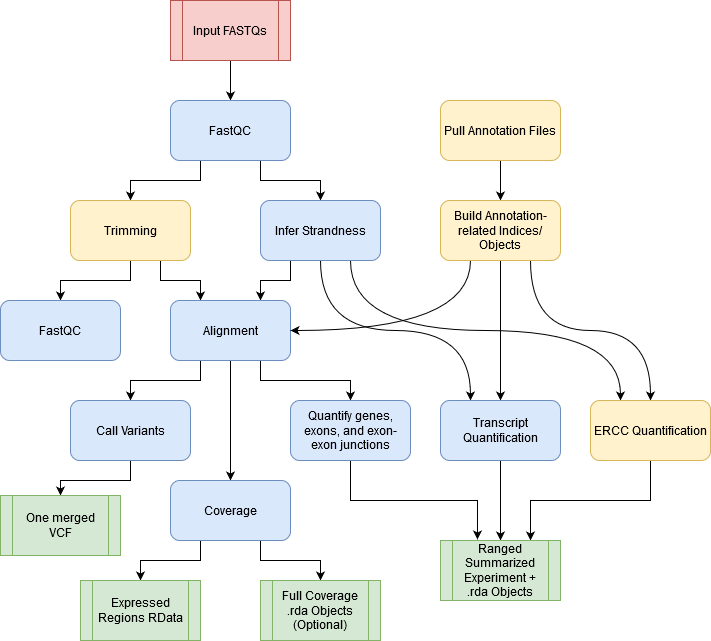
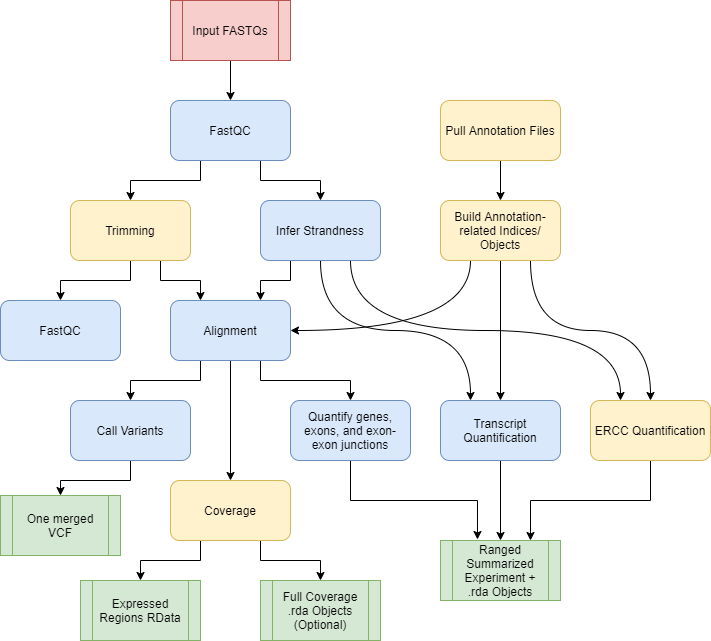
Deploying to gh-pages from  @ f59bdbb21c9f0b1ec978e0bd7d69b05b104e1091 🚀

diff --git a/pipeline-overview.html b/pipeline-overview.html
@@ -230,10 +230,8 @@ code span.wa { color: #60a0b0; font-weight: bold; font-style: italic; } /* Warni
             <section class="normal" id="section-">
 <div id="pipeline-overview" class="section level1">
 <h1><span class="header-section-number">5</span> Pipeline Overview</h1>
-<div class="figure">
-<img src="images/4_workflow.png" alt="" />
-<p class="caption">Functional workflow</p>
-</div>
+<p><img src="images/4_workflow.png" />
+<em>Diagram representing the “conceptual” workflow traversed by SPEAQeasy. Here some nextflow <a href="https://www.nextflow.io/docs/latest/process.html"><code>processes</code></a> are grouped together for simplicity; the exact processes traversed are enumerated below. The red box indicates the FASTQ files are inputs to the pipeline; green coloring denotes major output files from the pipeline; the remaining boxes represent computational steps. Yellow-colored steps are optional or not always performed; for example, preparing a particular set of annotation files occurs once and uses a cache for further runs. Finally, blue-colored steps are ordinary processes which occur on every pipeline execution.</em></p>
 <div id="preparation-steps" class="section level2">
 <h2><span class="header-section-number">5.1</span> Preparation Steps</h2>
 <p>The following processes in the pipeline are done only once for a given configuration, and are skipped on all subsequent runs:</p>

diff --git a/index.html b/index.html
@@ -235,7 +235,9 @@ code span.wa { color: #60a0b0; font-weight: bold; font-style: italic; } /* Warni
 <div id="overview" class="section level1">
 <h1><span class="header-section-number">1</span> Overview</h1>
 <p>SPEAQeasy is a <a href="https://www.nextflow.io/">Nextflow</a>-based <strong>S</strong>calable RNA-seq <strong>P</strong>ipeline for <strong>E</strong>xpression <strong>A</strong>nd <strong>Q</strong>uantification.</p>
-<p>This book was last updated on 2020-09-03 16:40:40.</p>
+<p><img src="images/4_workflow.png" />
+<em>Diagram representing the “conceptual” workflow traversed by SPEAQeasy. Here some nextflow <a href="https://www.nextflow.io/docs/latest/process.html"><code>processes</code></a> are grouped together for simplicity; the exact processes traversed are enumerated <a href="pipeline-overview.html#pipeline-overview">here</a>. The red box indicates the FASTQ files are inputs to the pipeline; green coloring denotes major output files from the pipeline; the remaining boxes represent computational steps. Yellow-colored steps are optional or not always performed; for example, preparing a particular set of annotation files occurs once and uses a cache for further runs. Finally, blue-colored steps are ordinary processes which occur on every pipeline execution.</em></p>
+<p>This book was last updated on 2020-09-03 18:22:29.</p>
 
 </div>
             </section>
